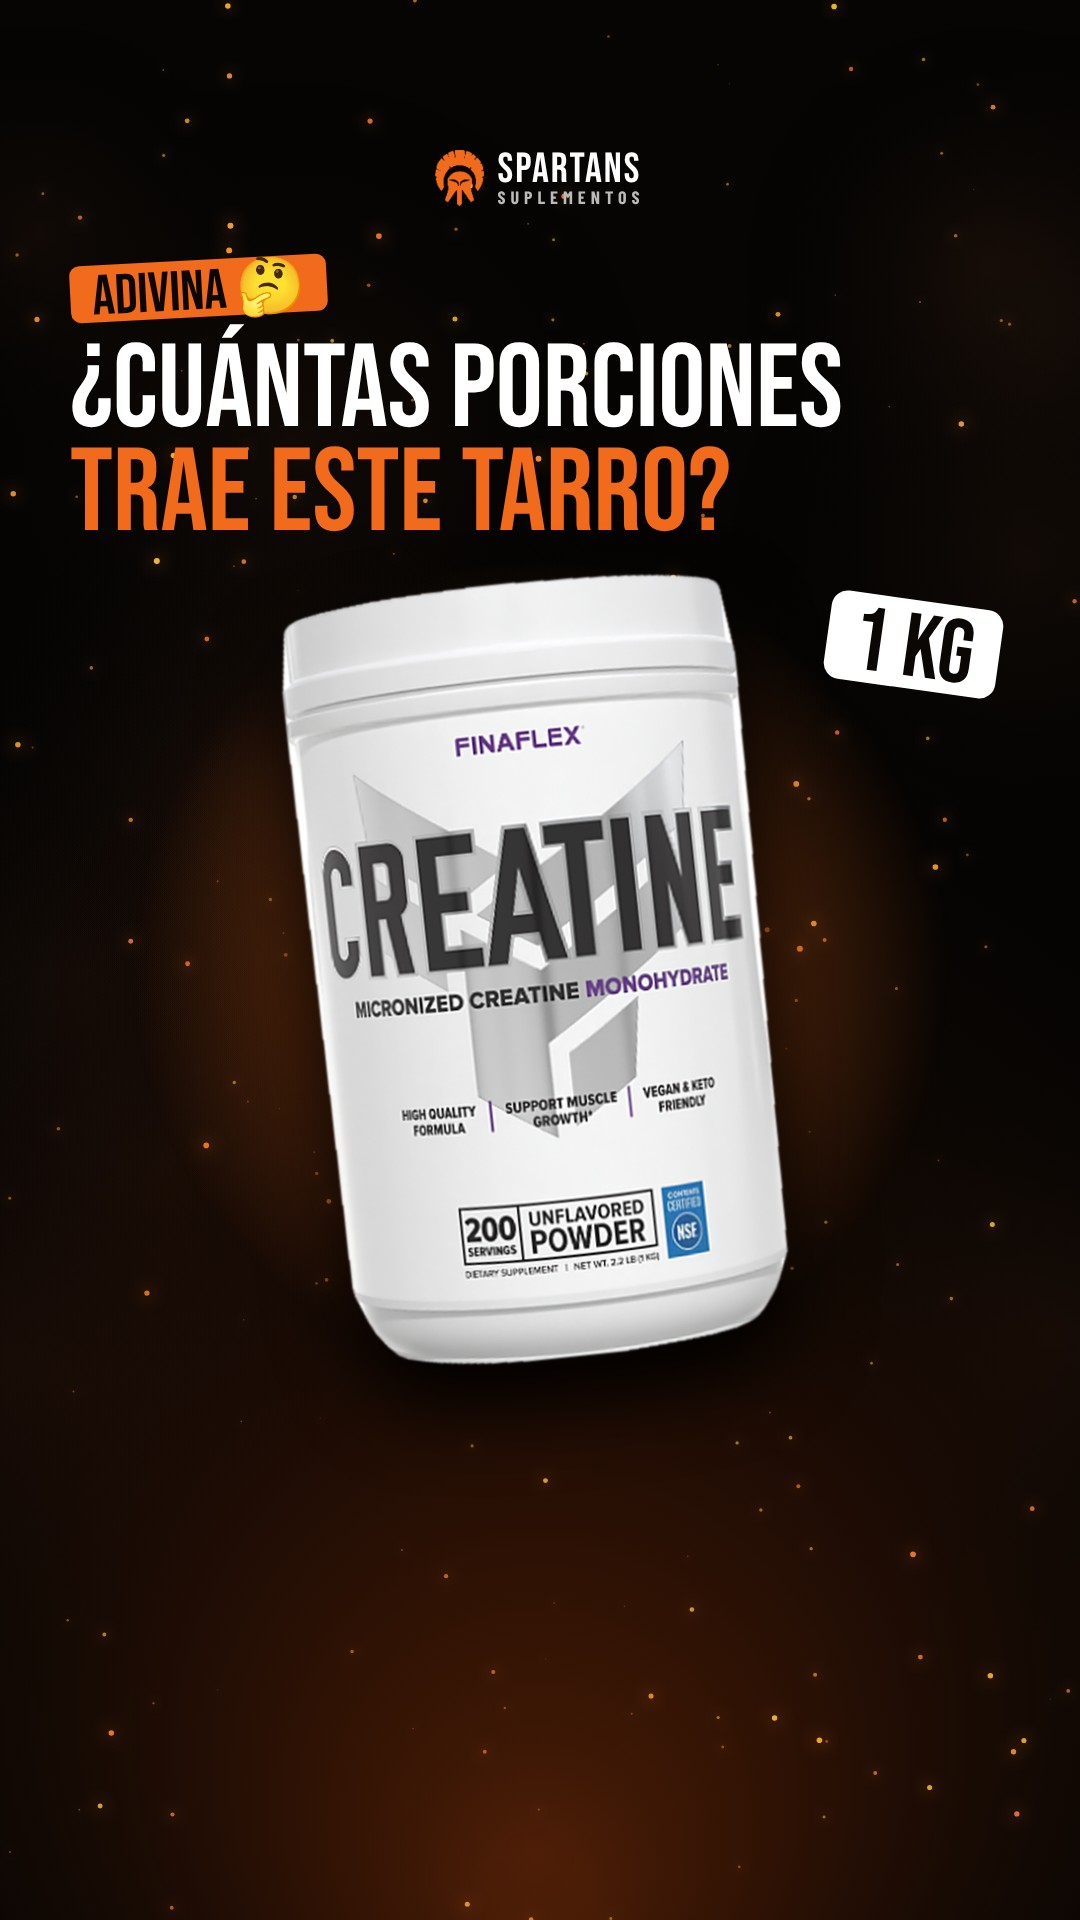
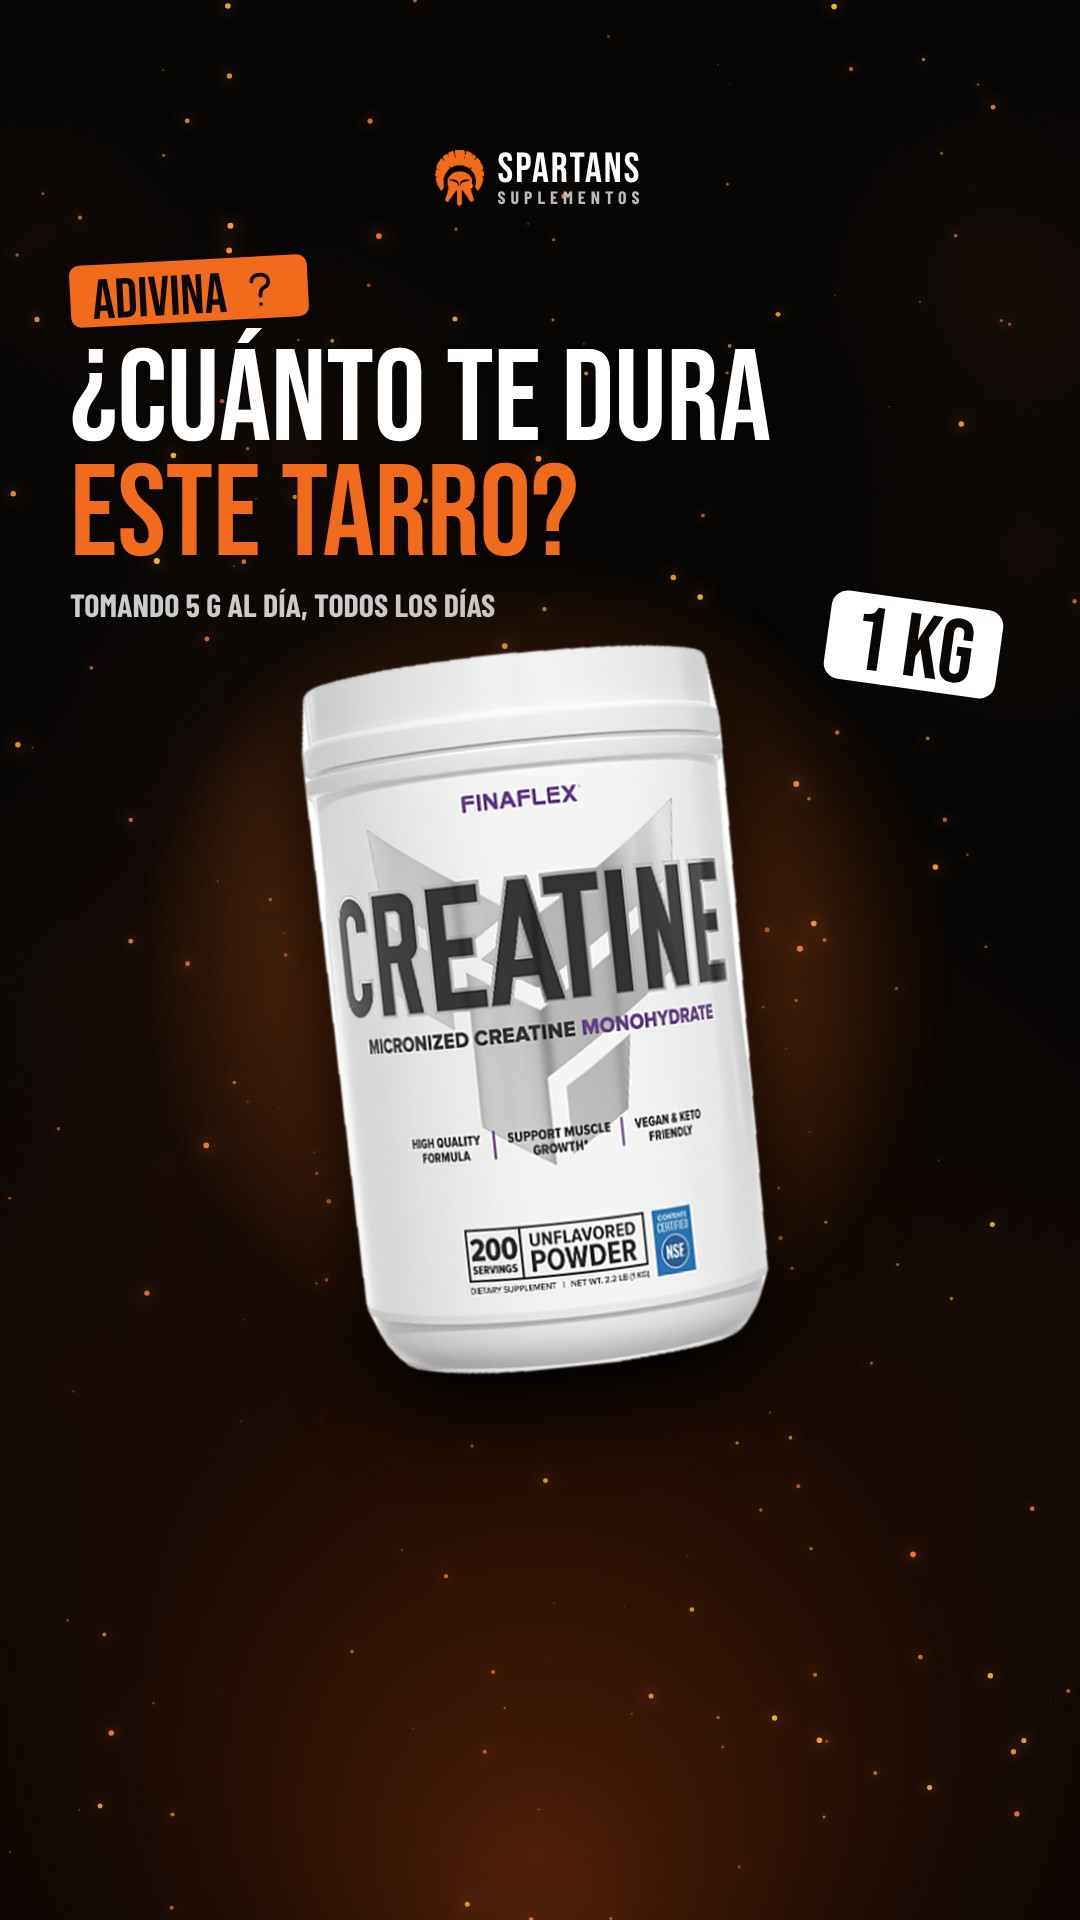
Sin emojis en diseños (íconos del kit), quiz sin respuesta a la vista
Claude-Session: https://claude.ai/code/session_01L8gB8Vcucavm81YHdPaFLQ

Changed region(s): [[0.0611, 0.125, 0.7944, 0.7188]]

diff --git a/kit/build/stories_esto_o_esto.py b/kit/build/stories_esto_o_esto.py
@@ -51,10 +51,10 @@ def esto_o_esto():
 
 def adivina():
     body = f'''{BRAND}<div style="position:absolute;top:260px;left:70px;right:70px"><span class="big" style="display:inline-block;background:{OR};color:#0b0705;font-size:56px;padding:8px 22px 0;border-radius:10px;transform:rotate(-3deg)">ADIVINA 🤔</span>
-<div class="big" style="font-size:118px;margin-top:22px">¿CUÁNTAS PORCIONES</div><div class="big o" style="font-size:118px">TRAE ESTE TARRO?</div></div>
+<div class="big" style="font-size:130px;margin-top:22px">¿CUÁNTO TE DURA</div><div class="big o" style="font-size:130px">ESTE TARRO?</div><div style="font-weight:700;font-size:32px;color:#ccc;text-transform:uppercase;margin-top:12px">Tomando 5 g al día, todos los días</div></div>
 <div style="position:absolute;left:-40px;right:-40px;top:560px;height:820px;display:flex;justify-content:center;align-items:center">
  <div style="position:absolute;width:820px;height:820px;border-radius:50%;background:radial-gradient(closest-side,rgba(242,106,27,.6),transparent)"></div>
- <img src="{I("p_finaflex.png")}" style="height:780px;position:relative;transform:rotate(-6deg);filter:drop-shadow(0 40px 40px #000)">
+ <img src="{I("p_finaflex.png")}" style="height:720px;position:relative;top:40px;transform:rotate(-6deg);filter:drop-shadow(0 40px 40px #000)">
  <div class="big" style="position:absolute;right:120px;top:40px;background:#fff;color:#0b0705;font-size:90px;padding:10px 26px 0;border-radius:16px;transform:rotate(8deg)">1 KG</div></div>
 <div class="sticker" style="top:1400px"></div>'''
     return page(body, seed=811)
@@ -62,11 +62,11 @@ def adivina():
 
 def respuesta():
     body = f'''{BRAND}<div style="position:absolute;top:300px;left:0;right:0;text-align:center"><div style="font-weight:800;font-size:40px;letter-spacing:6px;color:#3ccf6e">RESPUESTA</div></div>
-<div style="position:absolute;top:360px;left:0;right:0;text-align:center"><div class="big o" style="font-size:520px;line-height:.8;text-shadow:0 0 80px rgba(242,106,27,.7)">200</div>
-<div class="big" style="font-size:140px;margin-top:-10px">PORCIONES</div></div>
+<div style="position:absolute;top:370px;left:0;right:0;text-align:center"><div class="big o" style="font-size:480px;line-height:.8;text-shadow:0 0 80px rgba(242,106,27,.7)">+6</div>
+<div class="big" style="font-size:170px;margin-top:-6px">MESES</div></div>
 <div style="position:absolute;top:1000px;left:0;right:0;display:flex;justify-content:center;align-items:center;gap:30px">
  <img src="{I("p_finaflex.png")}" style="height:420px;filter:drop-shadow(0 30px 26px #000)">
- <div><div class="big" style="font-size:96px">+6 MESES</div><div style="font-weight:700;font-size:34px;color:#ddd;text-transform:uppercase;line-height:1.15">tomando 5 g<br>todos los días</div>
+ <div><div class="big" style="font-size:90px">200 PORCIONES</div><div style="font-weight:700;font-size:34px;color:#ddd;text-transform:uppercase;line-height:1.15">de 5 g = 200 días<br>de creatina</div>
  <div style="font-weight:700;font-size:28px;color:#aaa;text-transform:uppercase;margin-top:14px">Micronizada · certificada NSF</div></div></div>
 <div style="position:absolute;top:1520px;left:0;right:0;text-align:center"><span class="big" style="display:inline-block;background:{OR};color:#0b0705;font-size:70px;padding:12px 34px 0;border-radius:16px;box-shadow:0 0 40px rgba(242,106,27,.6)">PÍDELA POR DM 📩</span></div>'''
     return page(body, seed=919)
@@ -89,6 +89,6 @@ if __name__ == '__main__':
     with sync_playwright() as p:
         b = p.chromium.launch(); pg = b.new_page(viewport={'width': W, 'height': H})
         for n, h in pages:
-            pg.set_content(h, wait_until='load'); pg.wait_for_selector('body[data-ok]'); pg.wait_for_timeout(300)
+            pg.set_content(gen.sin_emoji(h), wait_until='load'); pg.wait_for_selector('body[data-ok]'); pg.wait_for_timeout(300)
             pg.screenshot(path=os.path.join(OUT, n + '.png')); print(n)
         b.close()

diff --git a/kit/build/gen.py b/kit/build/gen.py
@@ -111,7 +111,33 @@ def render(pages):
         b = p.chromium.launch()
         pg = b.new_page(viewport={'width': 1080, 'height': 1350})
         for name, html in pages:
-            pg.set_content(html, wait_until='load'); pg.wait_for_selector('body[data-ok]');pg.wait_for_timeout(300)
+            pg.set_content(sin_emoji(html), wait_until='load'); pg.wait_for_selector('body[data-ok]');pg.wait_for_timeout(300)
             pg.screenshot(path=os.path.join(OUT, name + '.png'))
             print(name)
         b.close()
+
+
+# Emojis: Chromium los dibuja con otra fuente (no la de iPhone) y se ven feos. Se reemplazan por íconos del kit.
+import re as _re
+_EMO = {'⏱': 'clock', '👇': ('arrow-right', 90), '👉': 'arrow-right', '📩': 'message-circle', '✉': 'message-circle',
+        '🔥': 'flame', '🔋': 'battery-charging', '🪫': 'alert-triangle', '💪': 'barbell', '⚡': 'bolt', '🎁': 'gift',
+        '⚠': 'alert-triangle', '🤔': 'question-mark', '✅': 'check', '🚫': 'x', '⏳': 'clock'}
+_EMO_RE = _re.compile('[\U0001F300-\U0001FAFF☀-➿⭐⏩-⏺⌚⌛]?')
+
+
+def _ico(name, rot=0):
+    s = icon(name, 24).replace('width="24"', 'width="0.9em"').replace('height="24"', 'height="0.9em"')
+    tr = f'transform:rotate({rot}deg);' if rot else ''
+    return s.replace('<svg', f'<svg style="vertical-align:-0.08em;{tr}"', 1)
+
+
+def sin_emoji(html):
+    def rep(m):
+        ch = m.group(0).replace('', '')
+        if ch == '✕':
+            return ch
+        v = _EMO.get(ch)
+        if v is None:
+            return ''
+        return _ico(*v) if isinstance(v, tuple) else _ico(v)
+    return _EMO_RE.sub(rep, html)

diff --git a/kit/build/lunes_primer_mes.py b/kit/build/lunes_primer_mes.py
@@ -235,7 +235,7 @@ def run(pages, out, h):
     with sync_playwright() as p:
         b = p.chromium.launch(); pg = b.new_page(viewport={'width': 1080, 'height': h})
         for n, html in pages:
-            pg.set_content(html, wait_until='load'); pg.wait_for_selector('body[data-ok]'); pg.wait_for_timeout(300)
+            pg.set_content(gen.sin_emoji(html), wait_until='load'); pg.wait_for_selector('body[data-ok]'); pg.wait_for_timeout(300)
             png = os.path.join(out, n + '.png'); pg.screenshot(path=png)
             from PIL import Image
             Image.open(png).convert('RGB').save(png[:-4] + '.jpg', quality=90); os.remove(png); print(n)

diff --git a/kit/build/reel.py b/kit/build/reel.py
@@ -103,7 +103,7 @@ def main():
     n = int(DUR * FPS)
     with sync_playwright() as p:
         b = p.chromium.launch(); pg = b.new_page(viewport={'width': W, 'height': H})
-        pg.set_content(html, wait_until='load'); pg.wait_for_selector('body[data-ok]')
+        pg.set_content(gen.sin_emoji(html), wait_until='load'); pg.wait_for_selector('body[data-ok]')
         ev = pg.evaluate('document.getAnimations().map(a=>[a.effect.getTiming().delay/1000, a.animationName])')
         for f in range(n):
             pg.evaluate(f'document.getAnimations().forEach(a=>{{a.currentTime={f * 1000 / FPS}}})')

diff --git a/kit/build/nuevos.py b/kit/build/nuevos.py
@@ -133,7 +133,7 @@ def render(pages, out, w, h):
     with sync_playwright() as p:
         b = p.chromium.launch(); pg = b.new_page(viewport={'width': w, 'height': h})
         for n, html in pages:
-            pg.set_content(html, wait_until='load'); pg.wait_for_selector('body[data-ok]'); pg.wait_for_timeout(300)
+            pg.set_content(gen.sin_emoji(html), wait_until='load'); pg.wait_for_selector('body[data-ok]'); pg.wait_for_timeout(300)
             pg.screenshot(path=os.path.join(out, n + '.png')); print(n)
         b.close()
 

diff --git a/kit/build/stock.py b/kit/build/stock.py
@@ -43,5 +43,5 @@ body=f"""{FX.replace('SEED','2026')}<div class="wall"></div>
 html=f'<html><head><style>{css}</style></head><body>{body}</body></html>'
 with sync_playwright() as p:
     b=p.chromium.launch(); pg=b.new_page(viewport={'width':1080,'height':1920})
-    pg.set_content(html,wait_until='load'); pg.wait_for_selector('body[data-ok]'); pg.wait_for_timeout(300)
+    pg.set_content(gen.sin_emoji(html),wait_until='load'); pg.wait_for_selector('body[data-ok]'); pg.wait_for_timeout(300)
     pg.screenshot(path=sys.argv[1]); b.close()

diff --git a/kit/build/destacadas.py b/kit/build/destacadas.py
@@ -89,6 +89,6 @@ if __name__ == '__main__':
     with sync_playwright() as p:
         b = p.chromium.launch(); pg = b.new_page(viewport={'width': W, 'height': H})
         for n, h in pages:
-            pg.set_content(h, wait_until='load'); pg.wait_for_selector('body[data-ok]'); pg.wait_for_timeout(300)
+            pg.set_content(gen.sin_emoji(h), wait_until='load'); pg.wait_for_selector('body[data-ok]'); pg.wait_for_timeout(300)
             pg.screenshot(path=os.path.join(OUT, n + '.png')); print(n)
         b.close()

diff --git a/kit/build/stories2.py b/kit/build/stories2.py
@@ -101,6 +101,6 @@ pages.append(('s7_objetivo',page(f'''
 with sync_playwright() as p:
     b=p.chromium.launch(); pg=b.new_page(viewport={'width':1080,'height':1920})
     for n,h in pages:
-        pg.set_content(h,wait_until='load'); pg.wait_for_selector('body[data-ok]'); pg.wait_for_timeout(300)
+        pg.set_content(gen.sin_emoji(h),wait_until='load'); pg.wait_for_selector('body[data-ok]'); pg.wait_for_timeout(300)
         pg.screenshot(path=os.path.join(OUT,n+'.png')); print(n)
     b.close()

diff --git a/CLAUDE.md b/CLAUDE.md
@@ -49,7 +49,7 @@ Productos nuevos que lleguen: no publicarlos hasta que el dueño mande imagen y 
 
 ## Identidad visual
 
-Fondo negro (#060504) con brasas naranjas, naranjo Spartans #F26A1B, blanco. Títulos en Bebas Neue, textos en Barlow Condensed (mayúsculas). Casco naranjo (kit/build/helmet.png) + "SPARTANS" arriba. Feed 1080×1350 (4:5); historias 1080×1920 con lo importante fuera de los 250 px superiores e inferiores. Historias **sin numeración** (nada de 1/5, 2/5: el orden lo controlamos nosotros al programar). **Ninguna imagen, video ni caption lleva precios de productos** (decisión del dueño): usar beneficios, datos (gramos, porciones, días que dura) y llamado al DM ("Pídelo por DM"); el precio se da por DM con la tabla del catálogo de esta guía. El costo de delivery ($1.500) sí puede aparecer. No repetir el mismo formato en feed e historias; evitar que todo parezca catálogo.
+Fondo negro (#060504) con brasas naranjas, naranjo Spartans #F26A1B, blanco. Títulos en Bebas Neue, textos en Barlow Condensed (mayúsculas). Casco naranjo (kit/build/helmet.png) + "SPARTANS" arriba. Feed 1080×1350 (4:5); historias 1080×1920 con lo importante fuera de los 250 px superiores e inferiores. Historias **sin numeración** (nada de 1/5, 2/5: el orden lo controlamos nosotros al programar). **Ninguna imagen, video ni caption lleva precios de productos** (decisión del dueño): usar beneficios, datos (gramos, porciones, días que dura) y llamado al DM ("Pídelo por DM"); el precio se da por DM con la tabla del catálogo de esta guía. El costo de delivery ($1.500) sí puede aparecer. **Sin emojis dentro de imágenes y videos** (Chromium no los dibuja como el iPhone y se ven feos; `gen.sin_emoji` los cambia por íconos al renderizar): usa íconos del kit. Los emojis sí van en captions y en los stickers que pone el dueño. No repetir el mismo formato en feed e historias; evitar que todo parezca catálogo.
 
 ## Cómo generar imágenes
 
@@ -83,7 +83,7 @@ Si se programa en Metricool:
    - Historia: `instagramData {"type":"STORY","isAiGenerated":false}`, sin `text`. Una historia por post, espaciadas **2 minutos** en orden. Si hay que corregir una historia de una secuencia ya programada, no edites solo esa: pasa toda la secuencia a borrador y créala completa de nuevo (editar cambia el orden de publicación en Metricool).
    - Carrusel: `instagramData {"type":"POST","isAiGenerated":false}`, varias URLs en `media`, con `text` (caption).
 4. Antes de crear, revisa con `getScheduledPosts` lo programado y con `getAnalyticsDataByMetrics` (IGST02, IGST05, IGST07; últimos 2 días) las historias ya publicadas, incluidas las que sube el dueño a mano, para no repetir tema ni producto. Metricool sincroniza las historias publicadas con algo de retraso.
-5. Historias interactivas (encuesta, quiz, "esto o esto", preguntas): prográmalas con `autoPublish: false`. Metricool le manda un aviso a la app del dueño y él la publica a mano desde Instagram, agregando el sticker (encuesta, quiz o pregunta) y hashtags escondidos. Diseña esas pantallas dejando un espacio libre de unos 300 px de alto para el sticker. El resto de las historias va con `autoPublish: true`. En el resumen final, avisa qué historias quedaron en modo aviso y qué sticker poner.
+5. Historias interactivas: la pregunta de un quiz no puede tener la respuesta a la vista en la misma imagen (ej. una etiqueta que dice "200 servings"). Historias interactivas (encuesta, quiz, "esto o esto", preguntas): prográmalas con `autoPublish: false`. Metricool le manda un aviso a la app del dueño y él la publica a mano desde Instagram, agregando el sticker (encuesta, quiz o pregunta) y hashtags escondidos. Diseña esas pantallas dejando un espacio libre de unos 300 px de alto para el sticker. El resto de las historias va con `autoPublish: true`. En el resumen final, avisa qué historias quedaron en modo aviso y qué sticker poner.
 
 ## Robot propio (alternativa gratis a Metricool)
 

diff --git a/registro.md b/registro.md
@@ -25,3 +25,4 @@
 - 2026-10-11 · orden · sin precios en ninguna imagen: catálogo único Feed/Catalogo (portada + 12 productos + cómo comprar, "Pídelo por DM"); borrado Feed/2026-10-11 (sus láminas estaban repetidas en el catálogo); destacada "Precios" → "Productos" (Destacadas/portada_productos.jpg)
 - 2026-10-12 · carrusel feed (6) · "Tu primer mes con creatina": línea de tiempo día 1 → semana 1–2 → semana 3–4 → mes 2+ que avanza en cada lámina, cierre con las 4 creatinas (días que duran) + shaker · Feed/2026-10-12/ · entregado a mano (cupo Metricool agotado)
 - 2026-10-12 · historias (4) · rehechas (las primeras le parecieron fomes al dueño): "esto o esto" sin sabor vs uva en pantalla dividida, adivinanza "¿cuántas porciones trae este tarro?" con Finaflex gigante, respuesta 200 porciones / +6 meses, adelanto del reel del jueves con cuenta regresiva · Historias/2026-10-12/ · kit/build/stories_esto_o_esto.py
+- 2026-10-12 · ajuste · sin emojis dentro de diseños (se ven distintos al iPhone): carrusel y historias del lunes regenerados; quiz cambiado a "¿cuánto te dura este tarro?" porque la etiqueta mostraba 200 servings
